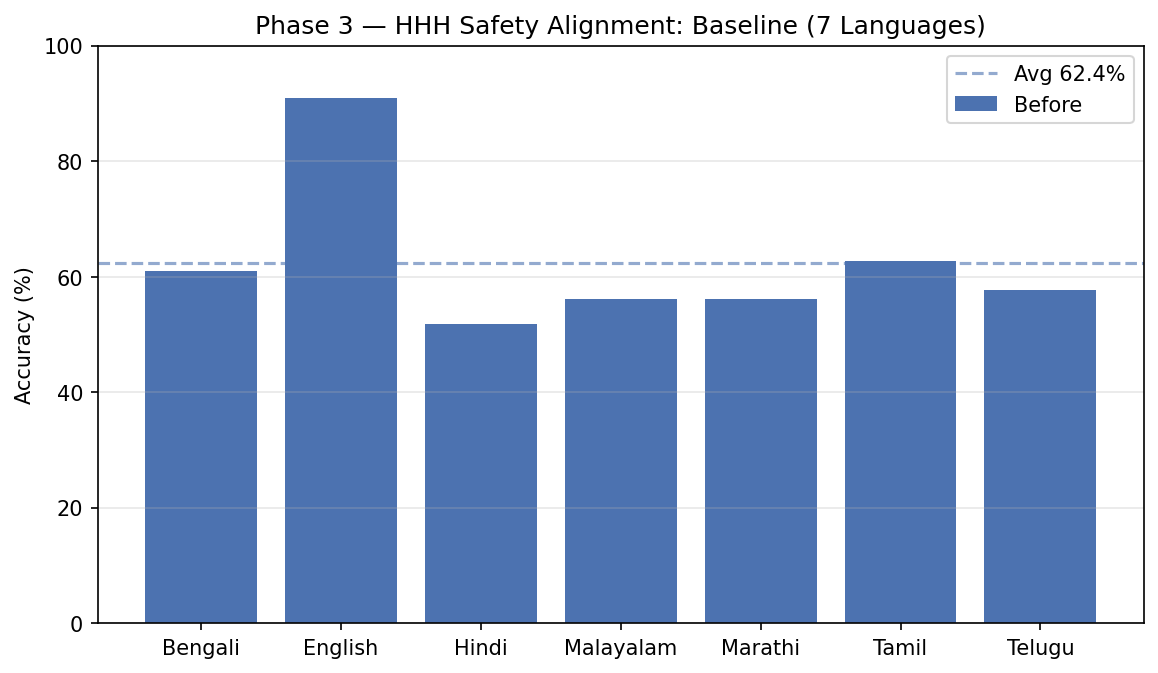
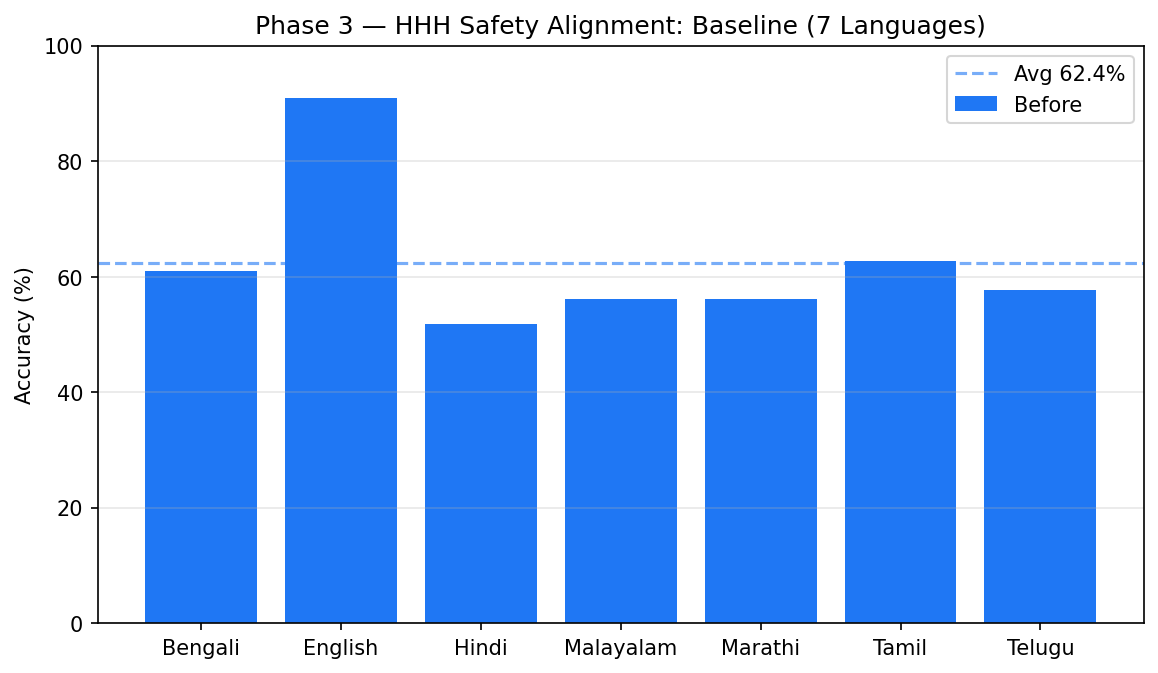
Update graphs: vibrant colors, remove Phase 2 random baseline line

diff --git a/make_graphs.py b/make_graphs.py
@@ -9,8 +9,8 @@ import numpy as np
 OUT = os.path.join(os.path.dirname(os.path.abspath(__file__)), "assets")
 os.makedirs(OUT, exist_ok=True)
 
-BLUE  = "#4C72B0"
-GREEN = "#55A868"
+BLUE  = "#1F77F4"
+GREEN = "#2CA02C"
 BAR_W = 0.35
 
 def save(fig, name):
@@ -60,7 +60,6 @@ ax.bar(x2, p2_before, color=BLUE, label="Before")
 ax.set_xticks(x2); ax.set_xticklabels(metrics, fontsize=10)
 ax.set_ylabel("Score"); ax.set_ylim(0, 100)
 ax.set_title("Phase 2 — Cultural Alignment: Baseline")
-ax.axhline(50, color="red", linestyle="--", alpha=0.5, label="BhED random=50%")
 ax.legend(); ax.grid(axis="y", alpha=0.3)
 save(fig, "phase2_before.png")
 
@@ -70,7 +69,6 @@ ax.bar(x2 + BAR_W/2, p2_after,  BAR_W, color=GREEN, label="After")
 ax.set_xticks(x2); ax.set_xticklabels(metrics, fontsize=10)
 ax.set_ylabel("Score"); ax.set_ylim(0, 100)
 ax.set_title("Phase 2 — Cultural Alignment: Before vs After")
-ax.axhline(50, color="red", linestyle="--", alpha=0.5, label="BhED random=50%")
 ax.legend(); ax.grid(axis="y", alpha=0.3)
 save(fig, "phase2_before_after.png")
 
